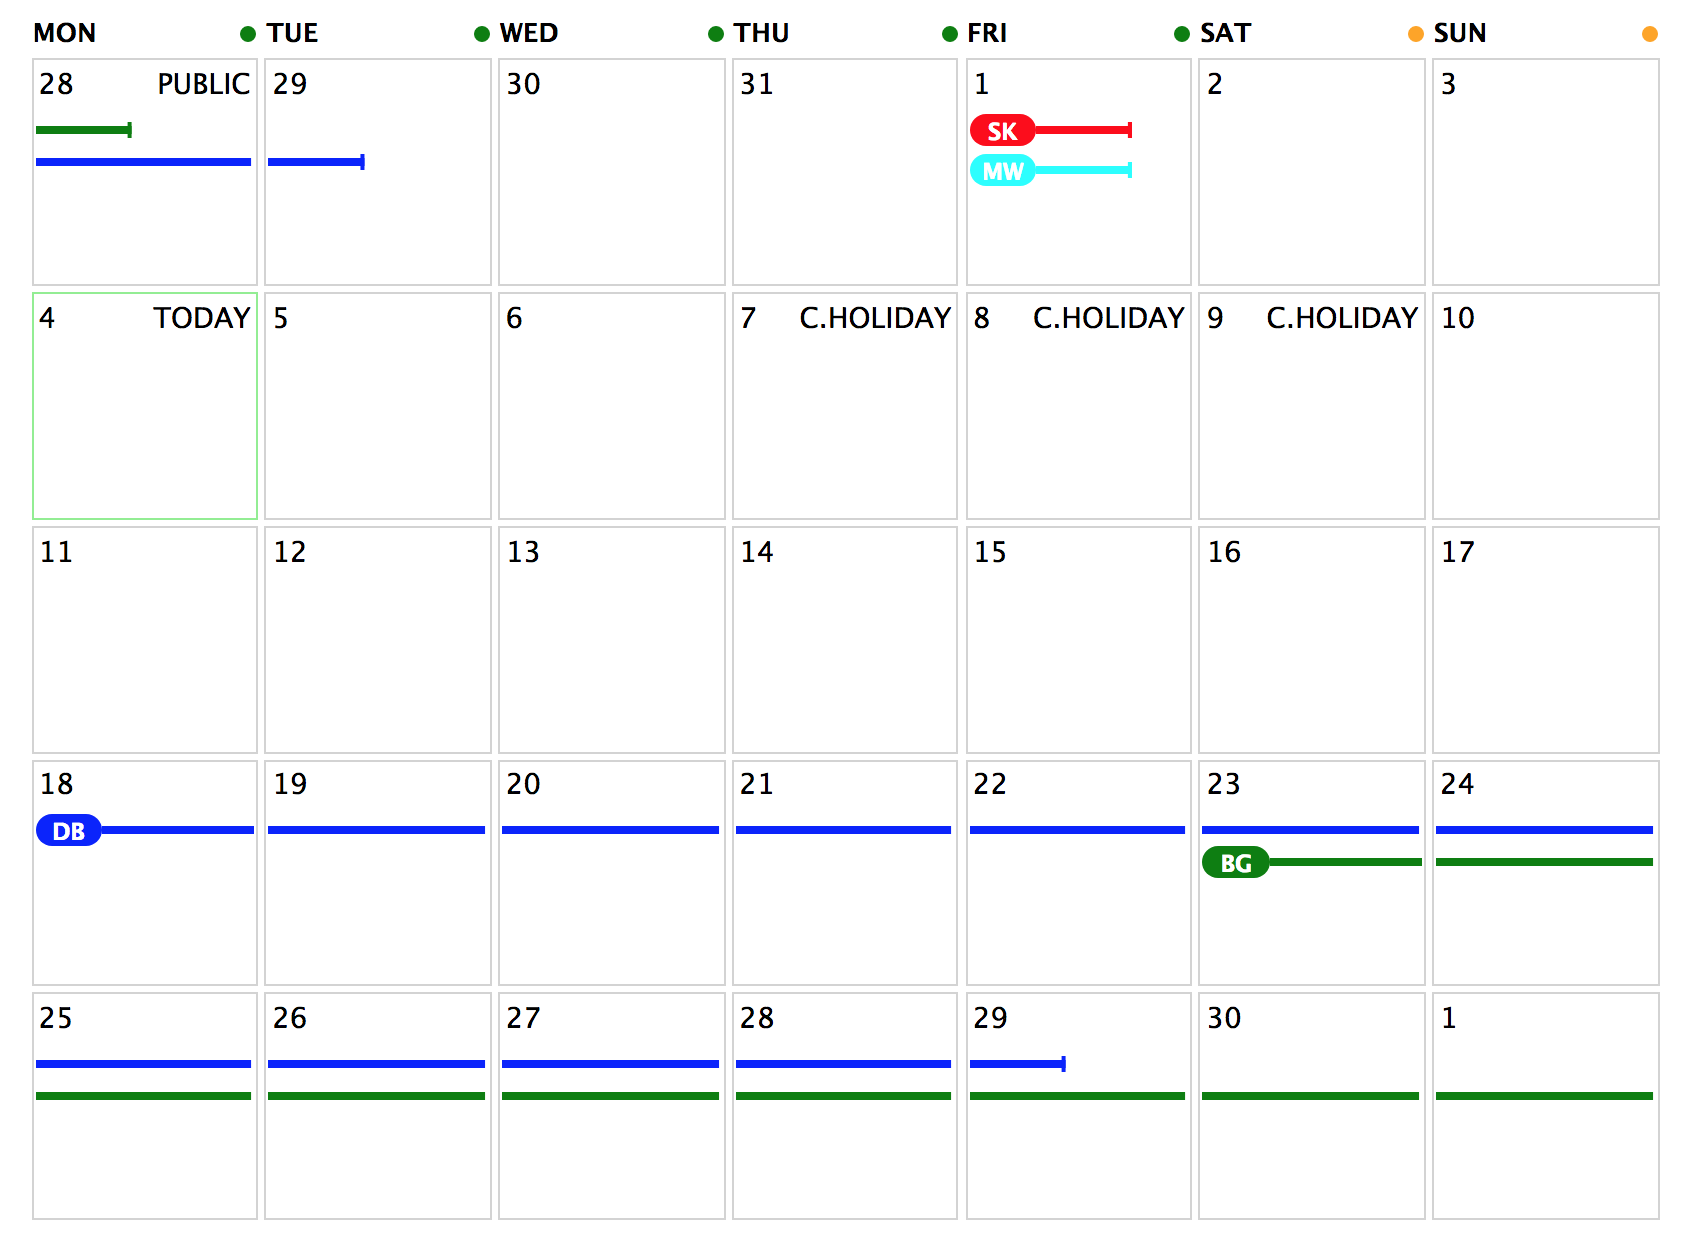
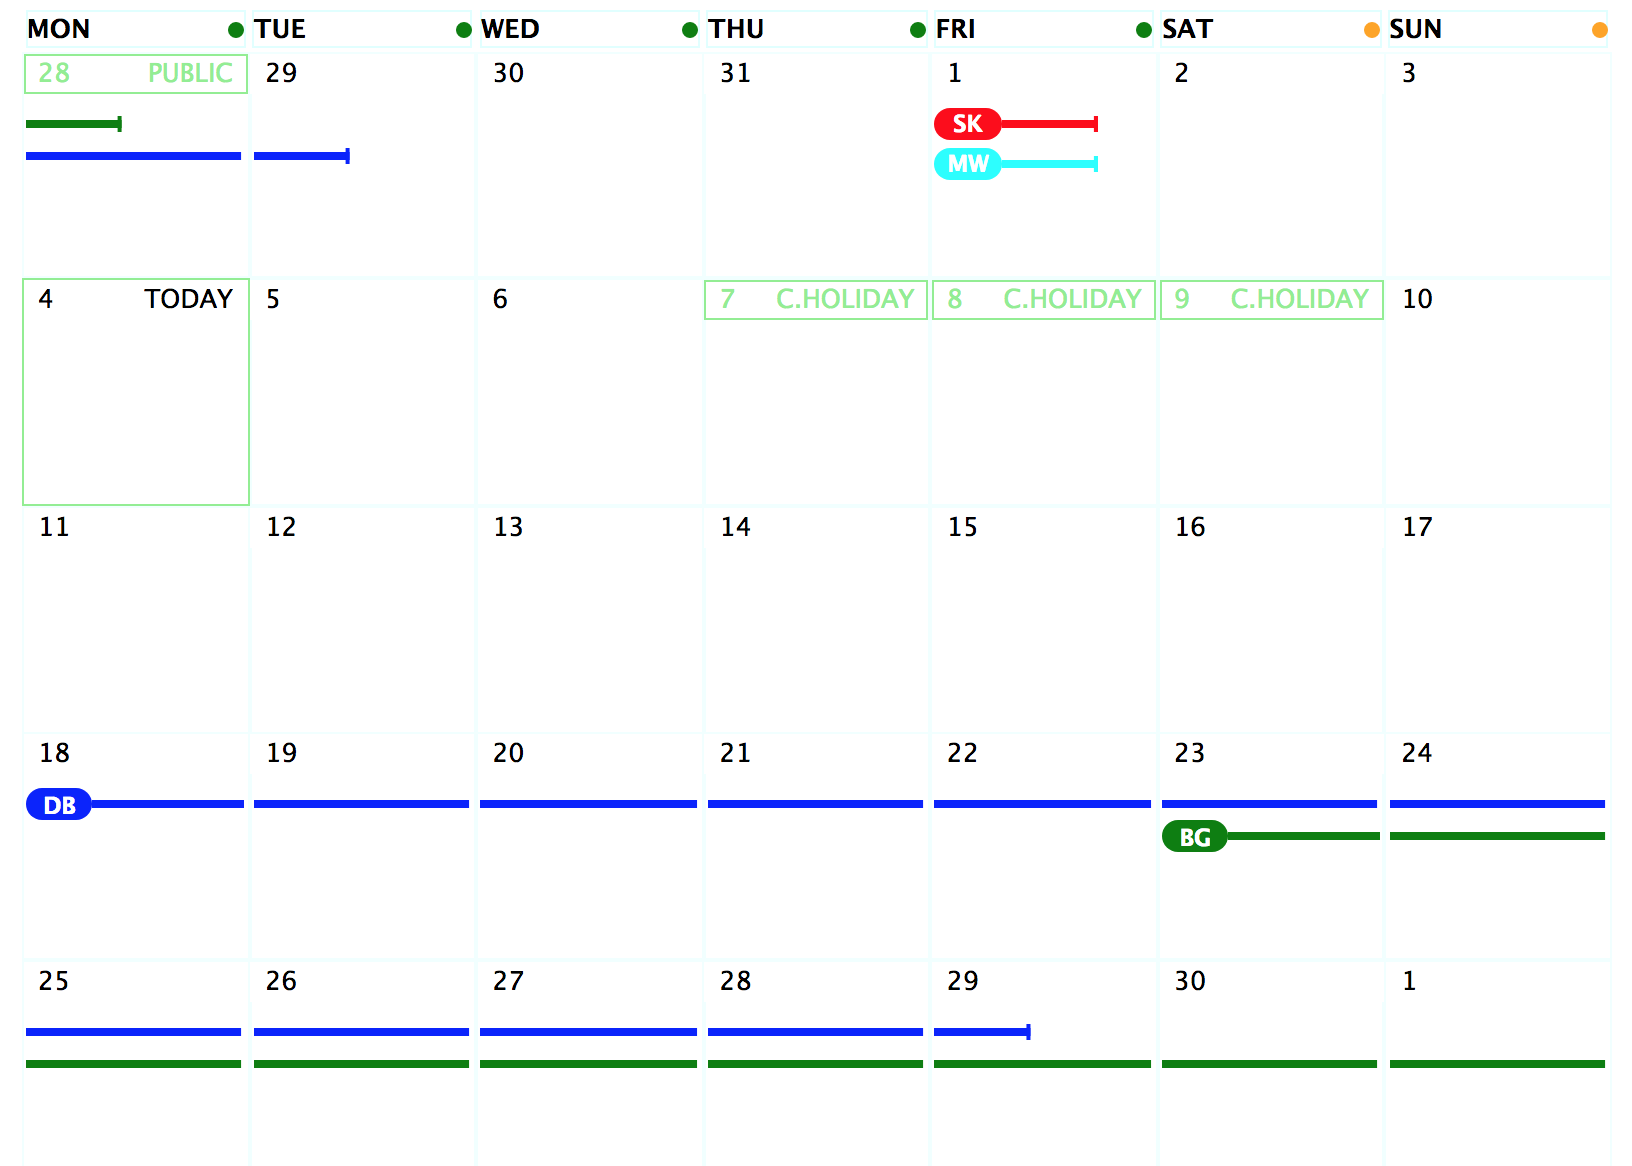
README update, clean up

diff --git a/src/styles/calendar_item.scss b/src/styles/calendar_item.scss
@@ -2,29 +2,34 @@
 
 .calendar_item {
   border: 1px solid $theme-border;
-  margin: 2px;
+  //margin: 2px;
   width: 140px;
   height: 140px;
   font-size: $font-size-base;
   font-family: $fonts;
 
-  &--highlighted {
-    border-color: $today;  
+  &--today {
+    border-color: $highlighted;  
   }
 }
 
 .top-bar {
-  //border: 2px dotted chocolate;
-  margin: 2px;
+  border: 1px solid white;
+  //margin: 2px;
   display: flex;
   justify-content: space-between;
-  padding: .1rem;
+  padding: .1rem .5rem;;
   height: 20px;
+
+  &--event {
+    border: 1px solid $highlighted;
+    color: $highlighted;  
+  }
 }
 
 .bottom-box {
   //border: 2px dashed black;
-  margin: 2px;
+  //margin: 2px;
   padding: .1rem;
   margin: 5% auto; 
   font-weight: bold;

diff --git a/src/styles/calendar_item.css b/src/styles/calendar_item.css
@@ -1,22 +1,23 @@
 .calendar_item {
-  border: 1px solid lightgray;
-  margin: 2px;
+  border: 1px solid azure;
   width: 140px;
   height: 140px;
-  font-size: 1.1rem;
+  font-size: 1rem;
   font-family: "Lucida Sans", "Lucida Sans Regular", "Lucida Grande", "Lucida Sans Unicode", Geneva, Verdana, sans-serif; }
-  .calendar_item--highlighted {
+  .calendar_item--today {
     border-color: lightgreen; }
 
 .top-bar {
-  margin: 2px;
+  border: 1px solid white;
   display: flex;
   justify-content: space-between;
-  padding: .1rem;
+  padding: .1rem .5rem;
   height: 20px; }
+  .top-bar--event {
+    border: 1px solid lightgreen;
+    color: lightgreen; }
 
 .bottom-box {
-  margin: 2px;
   padding: .1rem;
   margin: 5% auto;
   font-weight: bold;

diff --git a/src/components/calendar_item.js b/src/components/calendar_item.js
@@ -58,9 +58,9 @@ class CalendarItem extends Component {
 
   render() {
     return (   
-      <div className={ cn('calendar_item', {'calendar_item--highlighted': this.props.event === 'TODAY'} )}>
+      <div className={ cn('calendar_item', {'calendar_item--today': this.props.event === 'TODAY'} )}>
 
-        <div className="top-bar">
+        <div className={ cn('top-bar', {'top-bar--event': (this.props.event === 'PUBLIC' || this.props.event === 'C.HOLIDAY') })}>
           <div>{this.props.day}</div>
           <div>{this.props.event}</div>
         </div>

diff --git a/src/styles/variables.scss b/src/styles/variables.scss
@@ -1,11 +1,11 @@
 // colours
-$today: lightgreen;
-$theme-border: lightgray;
+$highlighted:lightgreen;
+$theme-border: azure;
 $basic: #fff;
 $weekday: green;
 $weekend: orange;
 
 // fonts
 $fonts: 'Lucida Sans', 'Lucida Sans Regular', 'Lucida Grande', 'Lucida Sans Unicode', Geneva, Verdana, sans-serif;
-$font-size-base: 1.1rem;
+$font-size-base: 1rem;
 $font-size-text: .9rem;

diff --git a/src/styles/weekday_item.scss b/src/styles/weekday_item.scss
@@ -1,9 +1,9 @@
 @import './variables.scss';
 
 .weekday_item {
-  border: 1px solid $basic;
+  border: 1px solid lightcyan;
   margin: 2px;
-  width: 140px;
+  width: 136px;
   height: 20px;
   display: flex;
   justify-content: space-between;
@@ -11,7 +11,6 @@
   font-family: $fonts;
   padding-top: 2px;
   font-weight: bold;
-
 }
 
 .dot {

diff --git a/src/styles/weekday_item.css b/src/styles/weekday_item.css
@@ -1,7 +1,7 @@
 .weekday_item {
-  border: 1px solid #fff;
+  border: 1px solid lightcyan;
   margin: 2px;
-  width: 140px;
+  width: 136px;
   height: 20px;
   display: flex;
   justify-content: space-between;
